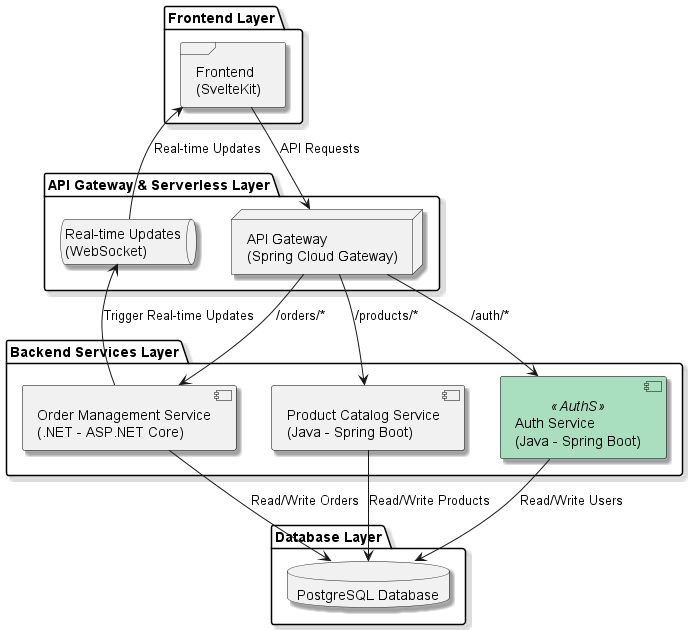
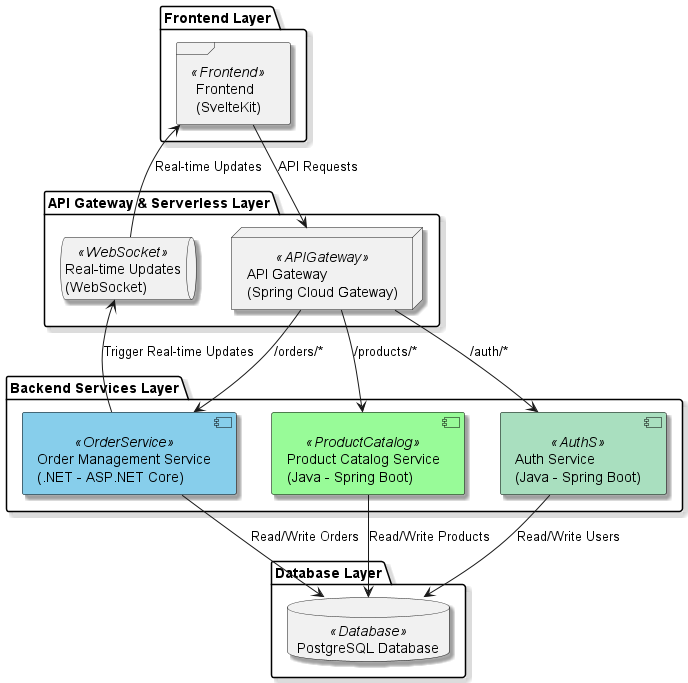
Update

Changed region(s): [[0.0, 0.0, 1.0, 0.9952]]

diff --git a/README.md b/README.md
@@ -1,10 +1,5 @@
-# E-commerce Platform Architecture
 
-This document describes the architecture of the e-commerce platform using a PlantUML diagram that details the main layers and components of the system, including the frontend, backend, and database layers, as well as real-time update management.
-
-## Architecture Diagram
-
-The diagram below shows how the different components of the system are organized and communicate with each other.
+# E-commerce Platform
 
 ## Repositorios
 
@@ -15,3 +10,151 @@ The diagram below shows how the different components of the system are organized
 - [Api Order](https://github.com/JohnCubides/Linktic-OrderService): Order Service.
 
 ![image](infrastructure.png)
+
+## Project Overview
+
+This project is a simplified e-commerce platform designed to demonstrate basic functionalities in managing product catalogs and order management. The platform includes two key backend services and is built with flexibility, scalability, and maintainability in mind.
+
+## Objective
+
+Design and partially implement an e-commerce platform with the following key functionalities:
+- **Product Catalog Management**: Manages product listings and product-related operations.
+- **Order Management**: Handles the creation, management, and listing of orders.
+
+The architecture can be based on microservices, serverless functions, or a hybrid approach depending on the strengths and needs of the project.
+
+## 1. Backend
+
+### 1.1. Product Catalog Service
+- **Functionality**: Manages product listings, providing CRUD operations.
+- **Implementation**: Built with Java (Spring Boot) as a RESTful service.
+- **Database**: Connected to a PostgreSQL database to manage product data.
+- **Deliverable**: Source code that follows RESTful principles with proper documentation and database interaction.
+
+### 1.2. Order Management Service
+- **Functionality**: Manages the creation and listing of orders.
+- **Implementation**: Built with .NET (ASP.NET Core) as a RESTful service.
+- **Database**: Integrated with PostgreSQL to manage orders and related information.
+- **Deliverable**: Source code with RESTful design, database interaction, and proper testing.
+
+## 2. Database Design
+
+### Schema Overview
+The database schema is designed to efficiently support both backend services with emphasis on the order management system’s scalability. The structure includes:
+- **Products Table**: Contains information such as product name, description, price, and inventory count.
+- **Orders Table**: Manages order details, linking each order to its customer and products.
+- **Order Items Table**: Stores details of individual items within each order.
+
+### Deliverable
+- Documentation outlining the database structure, including data storage, access, and management strategies.
+- Details for relational database (PostgreSQL) configuration.
+
+## 3. DevOps (Pipelines)
+
+### CI/CD Pipeline
+A basic CI/CD pipeline is set up to automate the build, test, and deployment process for the backend services. The pipeline includes:
+- **Build**: Automates building of the service to ensure code integrity.
+- **Testing**: Runs unit and integration tests for each service.
+- **Deployment**: Deploys the application to an Azure Web App environment.
+
+### Pipeline Configuration
+The pipeline configuration files (`.yml`) are stored in the `.github/workflows` directory and include:
+- Simulated deployments for testing and validation.
+- Version control management using GitHub Actions.
+
+### Deliverable
+- Pipeline configuration files (`deploy-to-azure.yml`) with a detailed explanation of each pipeline step.
+
+## 4. Submission
+
+All code and documentation are stored in a GitHub repository. The repository includes:
+- **README.md**: Provides setup and operation instructions.
+- **Swagger/OpenAPI**: API documentation accessible at `/swagger-ui`.
+- **Postman Collection**: Collection for testing endpoints interactively.
+
+### Deliverable
+- Clear and comprehensive instructions for setting up and running the backend components.
+
+## Bonus (Optional)
+
+### App Planning (Architecture)
+- High-level architecture diagram created using PlantUML, detailing backend components such as API Gateway, services, and database interactions.
+
+### Cloud Design
+- Simulated backend and database architecture using tools like LocalStack or a real deployment example on Azure/AWS.
+
+### Frontend
+- A simple frontend application using **SvelteKit** that interacts with backend services to display products and manage orders.
+
+### Authentication
+- User login and logout functionalities using JWT authentication integrated into the backend.
+
+### Multiple Languages
+- Implementation of one backend service or additional functionality using another programming language to demonstrate proficiency.
+
+### Real-time Updates
+- Implemented using **WebSockets** or **Server-Sent Events (SSE)** for real-time updates on order status.
+
+### Git Usage
+- Proper usage of microcommits and effective branching demonstrated throughout the project.
+
+### API Documentation
+- **Swagger** and **Postman** documentation provided for testing and interaction with backend services.
+
+### Database Documentation
+- Comprehensive database documentation including data models, relationships, and data access strategies.
+
+## Evaluation Criteria
+
+- **Backend and Database Design**: Focus on scalability, maintainability, and operational efficiency.
+- **DevOps**: Completeness and effectiveness of the CI/CD pipeline, including deployment to cloud environments.
+- **Bonus Deliverables**: Quality and innovation demonstrated in optional tasks such as frontend development, authentication, and real-time updates.
+
+## Tips and Assumptions
+
+- Document all design choices and assumptions clearly.
+- Ensure that all components are easily runnable with clear setup instructions.
+- Favor simplicity in design and implementation for clarity and maintainability.
+
+## Getting Started
+
+### Prerequisites
+- **Java (Spring Boot)** and **.NET (ASP.NET Core)** environments set up.
+- **PostgreSQL** installed and configured.
+- **Node.js** and **npm** installed for frontend development.
+
+### Installation
+
+1. **Clone the Repository**:
+   ```bash
+   git clone https://github.com/your-username/ecommerce-platform.git
+   cd ecommerce-platform
+   ```
+
+2. **Backend Setup**:
+   - Follow the instructions in `/backend/README.md` to set up the product catalog and order management services.
+
+3. **Database Setup**:
+   - Execute the migration scripts located in `/migrations` to set up the database schema.
+
+4. **Frontend Setup**:
+   - Navigate to the `/frontend` directory and run:
+     ```bash
+     npm install
+     npm run dev
+     ```
+
+### Running the Application
+
+1. **Start Backend Services**:
+   ```bash
+   dotnet run --project ./OrderService
+   mvn spring-boot:run -f ./ProductCatalogService
+   ```
+
+2. **Access the Frontend**:
+   - Go to `http://localhost:3000` to access the application.
+
+## Contact
+
+For questions or support, please contact [John Cubides] at [john.cubides87@gmail.com].
